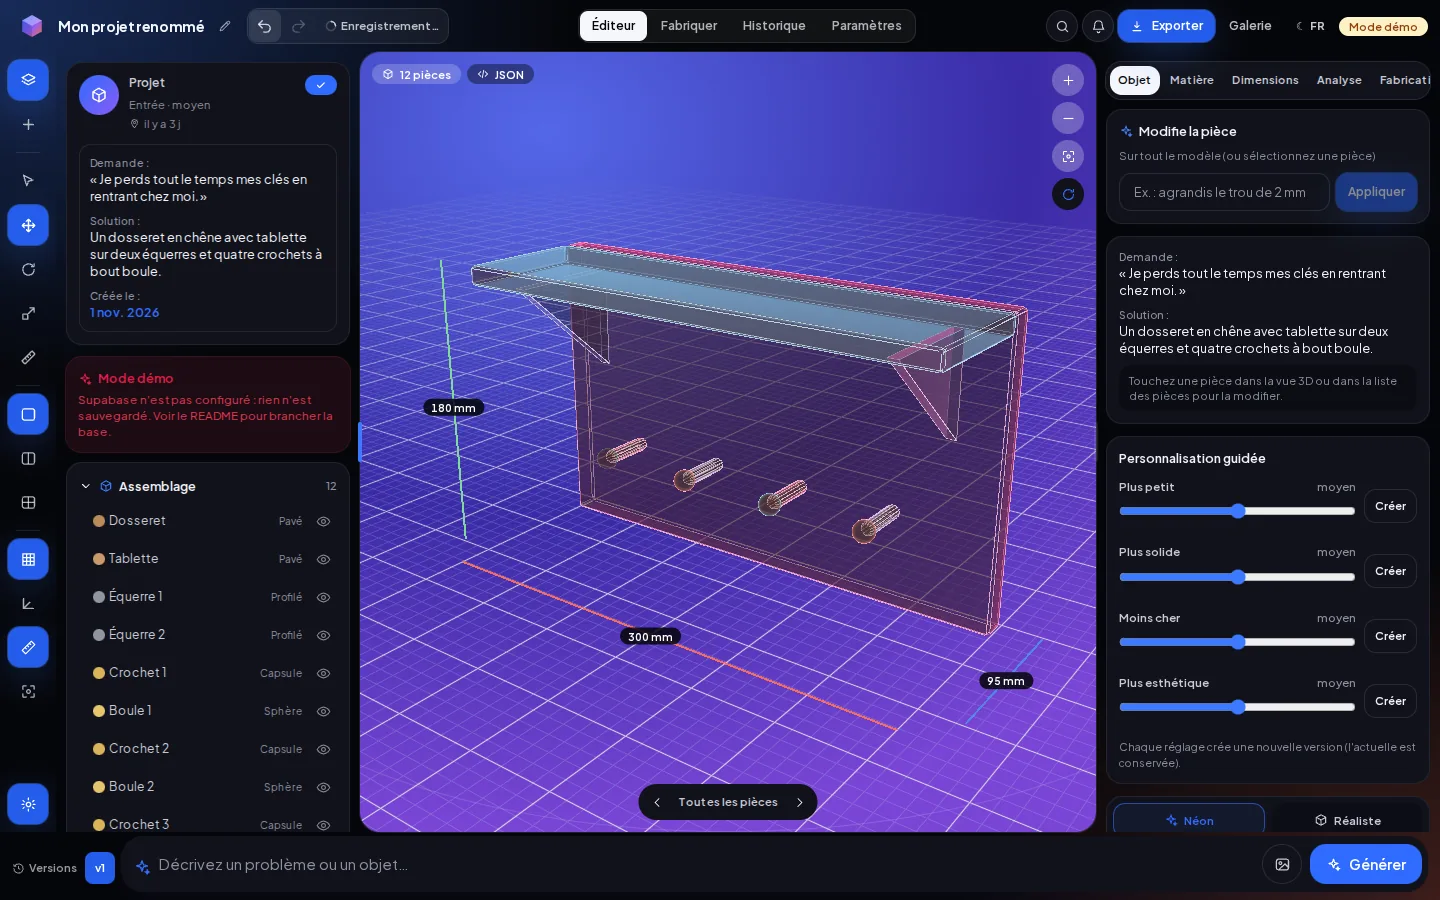
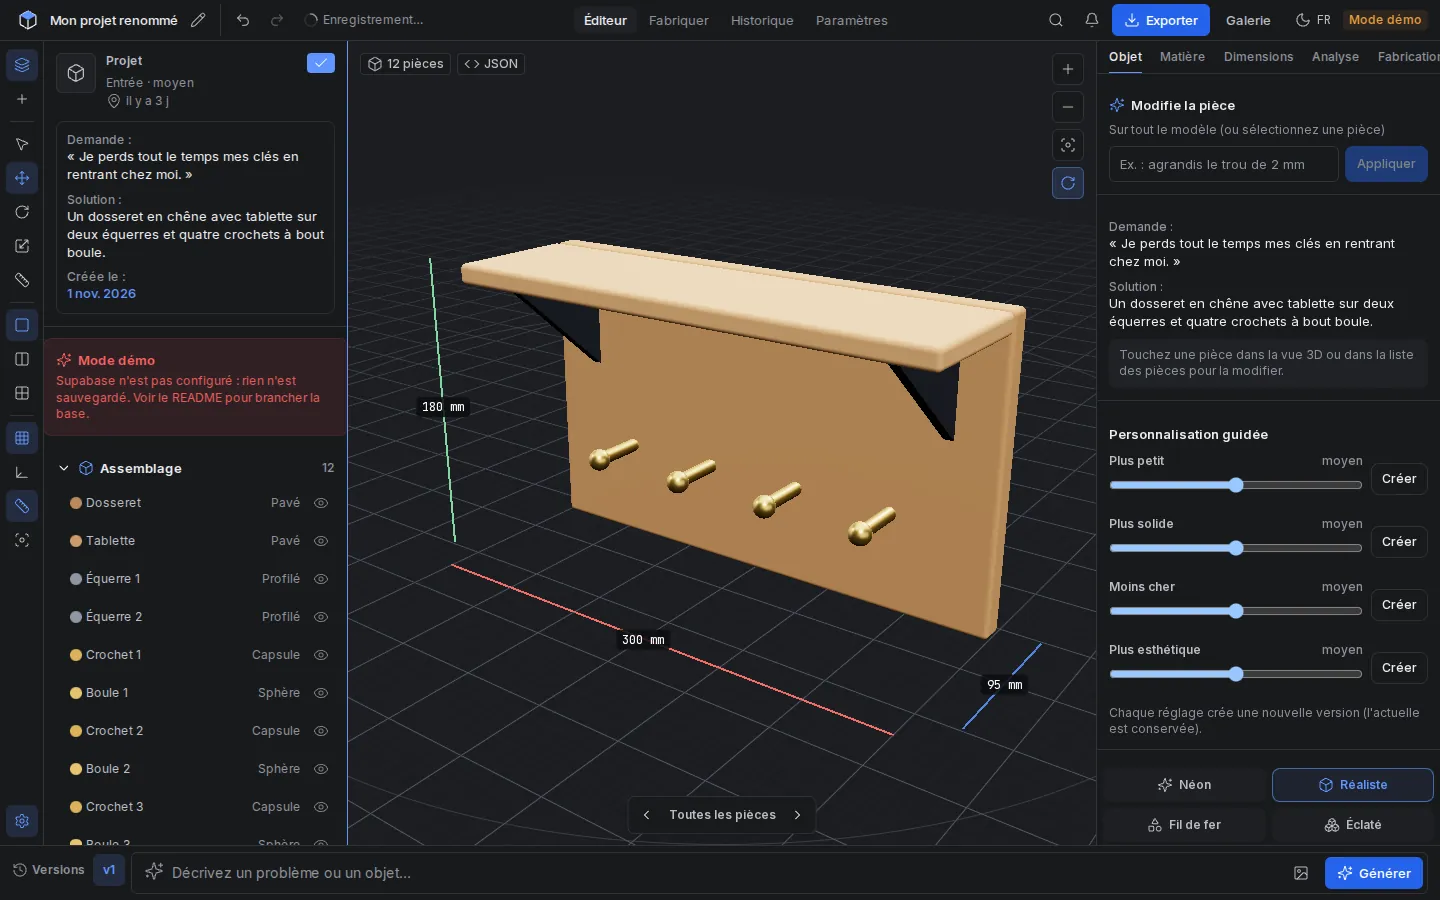
Forma3D pro phase 1 : capture réelle de l'éditeur sur l'accueil, boutons de 44 px, README [skip e2e]
Claude-Session: https://claude.ai/code/session_018HWHvf6HnESRCoK33WvcKk

diff --git a/forma3d/src/components/landing/Landing.tsx b/forma3d/src/components/landing/Landing.tsx
@@ -91,11 +91,11 @@ export async function Landing() {
             <p className="mt-4 max-w-xl text-lg text-ink-soft">{subtitle}</p>
             <p className="mt-2 max-w-xl text-base text-ink-mute">{t("landing.audience")}</p>
             <div className="mt-8 flex flex-wrap justify-center gap-2">
-              <Link href="/studio" className="btn-primary tap !min-h-10 !px-4">
+              <Link href="/studio" className="btn-primary tap !min-h-11 !px-4">
                 {t("landing.try")} <IconChevronRight />
               </Link>
               {!viewer && (
-                <Link href="/connexion?mode=inscription" className="btn-secondary tap !min-h-10 !px-4">
+                <Link href="/connexion?mode=inscription" className="btn-secondary tap !min-h-11 !px-4">
                   {t("landing.signup")}
                 </Link>
               )}
@@ -202,11 +202,11 @@ export async function Landing() {
             <p className="mt-2 text-base text-ink-mute">{t("landing.ctaLead")}</p>
           </div>
           <div className="flex flex-wrap gap-2">
-            <Link href="/studio" className="btn-primary tap !min-h-10 !px-4">
+            <Link href="/studio" className="btn-primary tap !min-h-11 !px-4">
               {t("landing.try")} <IconChevronRight />
             </Link>
             {!viewer && (
-              <Link href="/connexion?mode=inscription" className="btn-secondary tap !min-h-10 !px-4">
+              <Link href="/connexion?mode=inscription" className="btn-secondary tap !min-h-11 !px-4">
                 {t("landing.signup")}
               </Link>
             )}

diff --git a/forma3d/src/app/layout.tsx b/forma3d/src/app/layout.tsx
@@ -22,6 +22,8 @@ const monoFont = JetBrains_Mono({
   display: "swap",
   variable: "--font-mono",
   weight: ["400", "500"],
+  // Petites valeurs seulement : pas de préchargement (le premier affichage reste léger).
+  preload: false,
 });
 
 /** Écrans de lancement iOS : un par taille d'appareil (largeur × hauteur en pixels CSS, densité). */

diff --git a/forma3d/README.md b/forma3d/README.md
@@ -437,6 +437,37 @@ recentre ; les poignées se saisissent au doigt ou au Pencil ; la forme libre se
   vrai Safari (ni Pencil, ni capteur d'inclinaison), donc un essai sur un vrai iPad reste à faire. Le score Lighthouse
   (mobile) est publié à chaque envoi (`lighthouse.txt`).
 
+## Design professionnel — phase 1 : identité d'outil d'ingénierie
+
+Référence vivante : **`/design-system`** (couleurs avec contrastes calculés, typographie, formes, icônes, mouvements et
+composants dans leurs états). Tout passe par des variables CSS (`src/app/globals.css`) redéfinies pour le thème sombre ;
+`src/lib/design/tokens.ts` les documente et le test `tests/design-tokens.test.ts` vérifie qu'elles restent identiques
+et que **chaque texte atteint 4,5:1 (WCAG AA)** sur surface, toile et champ, dans les deux thèmes.
+
+- **Couleurs** : surfaces neutres (anthracite en sombre, gris très clair en clair), **un seul accent bleu** pour la sélection
+  et l'action principale, vert / orange / rouge discrets pour validé / avertissement / erreur. Rouge, vert et bleu des axes
+  réservés à la 3D. Plus de dégradés de fond, de halos, de pilules ni d'émojis. Les couleurs de l'admin (dégradé, accent) ne
+  s'appliquent plus : leurs champs sont retirés de `/admin/apparence`.
+- **Typographie** : Inter pour l'interface, JetBrains Mono pour les cotes, positions, angles et crédits. Échelle 12, 13, 14,
+  16, 20, 28 px (40 px pour le seul titre de l'accueil), graisses 400 / 500 / 600.
+- **Formes** : coins de 4 à 8 px, filets de 1 px (les colonnes de l'éditeur sont séparées par des filets, sans cartes),
+  ombre légère réservée aux menus flottants, grille de 4 px.
+- **Icônes** : un seul jeu, Lucide (`lucide-react`), trait 1,5, en 16 ou 20 px. **Info-bulles** avec nom et raccourci
+  (`components/ui/Tooltip.tsx`) : au survol après 400 ms, immédiates au focus clavier, jamais au toucher.
+- **Composants** : boutons principal / secondaire / discret / danger, champ numérique **à glisser** (`components/ui/NumberField.tsx` :
+  glisser sur le libellé X, Y, Z… à la souris, au trackpad, au doigt ou au Pencil ; ×10 avec Maj, ×0,1 avec Alt ; flèches au
+  clavier), listes, onglets soulignés, menus, panneaux, dialogues, étiquettes, interrupteur, états vides et squelettes. Chacun
+  a ses états survol, actif, désactivé et focus visible (anneau d'accent de 2 px).
+- **Mouvements** : 120 à 200 ms, discrets, désactivés si « réduire les animations » est demandé.
+- **Vue 3D** : fond uni neutre qui suit le thème, quadrillage gris, éclairage studio blanc, rendu réaliste par défaut (le
+  rendu néon reste un choix dans Paramètres).
+- **Accueil** : fond sombre uni, titre de taille raisonnable, ce que fait le produit et pour qui, **capture réelle de
+  l'éditeur** (`public/landing/editeur.webp`, issue des captures de la CI, sans cadre d'appareil), sections courtes
+  (étapes, fonctions, exemples en 3D, galerie). Les objets 3D du héros sont gris, un seul à la couleur d'accent.
+
+La disposition de l'éditeur (barre d'actions, bibliothèque de formes, barre contextuelle, cube de vue) change en phase 2 ;
+la phase 1 n'en modifie que l'apparence.
+
 ## Mon espace et administration
 
 - `/espace` : demandes, modèles 3D (GLB dans Supabase Storage), favoris, dossiers, matières préférées,
